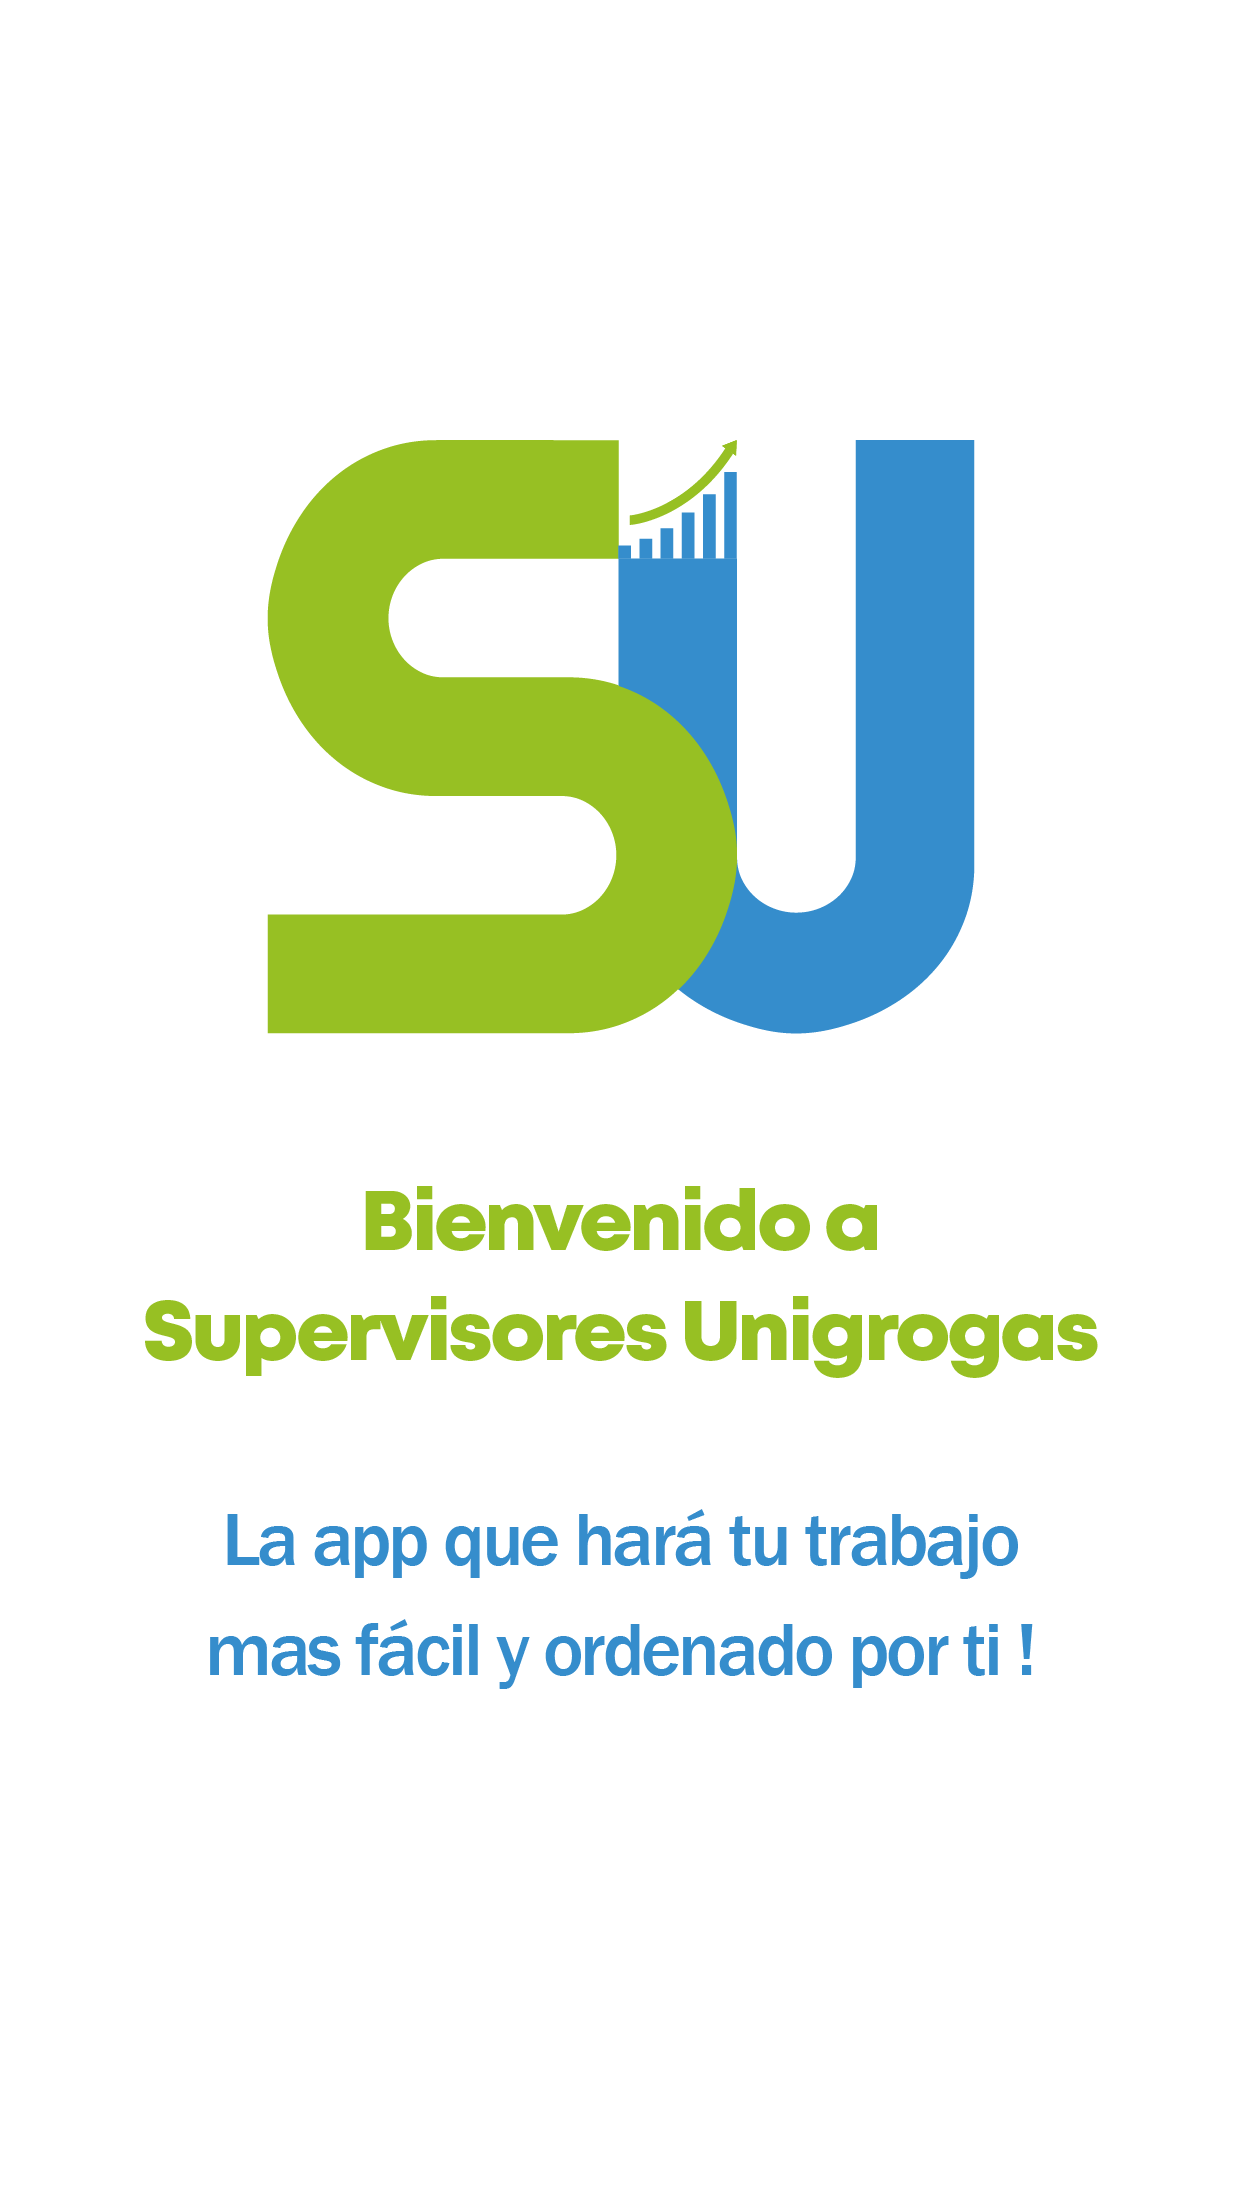
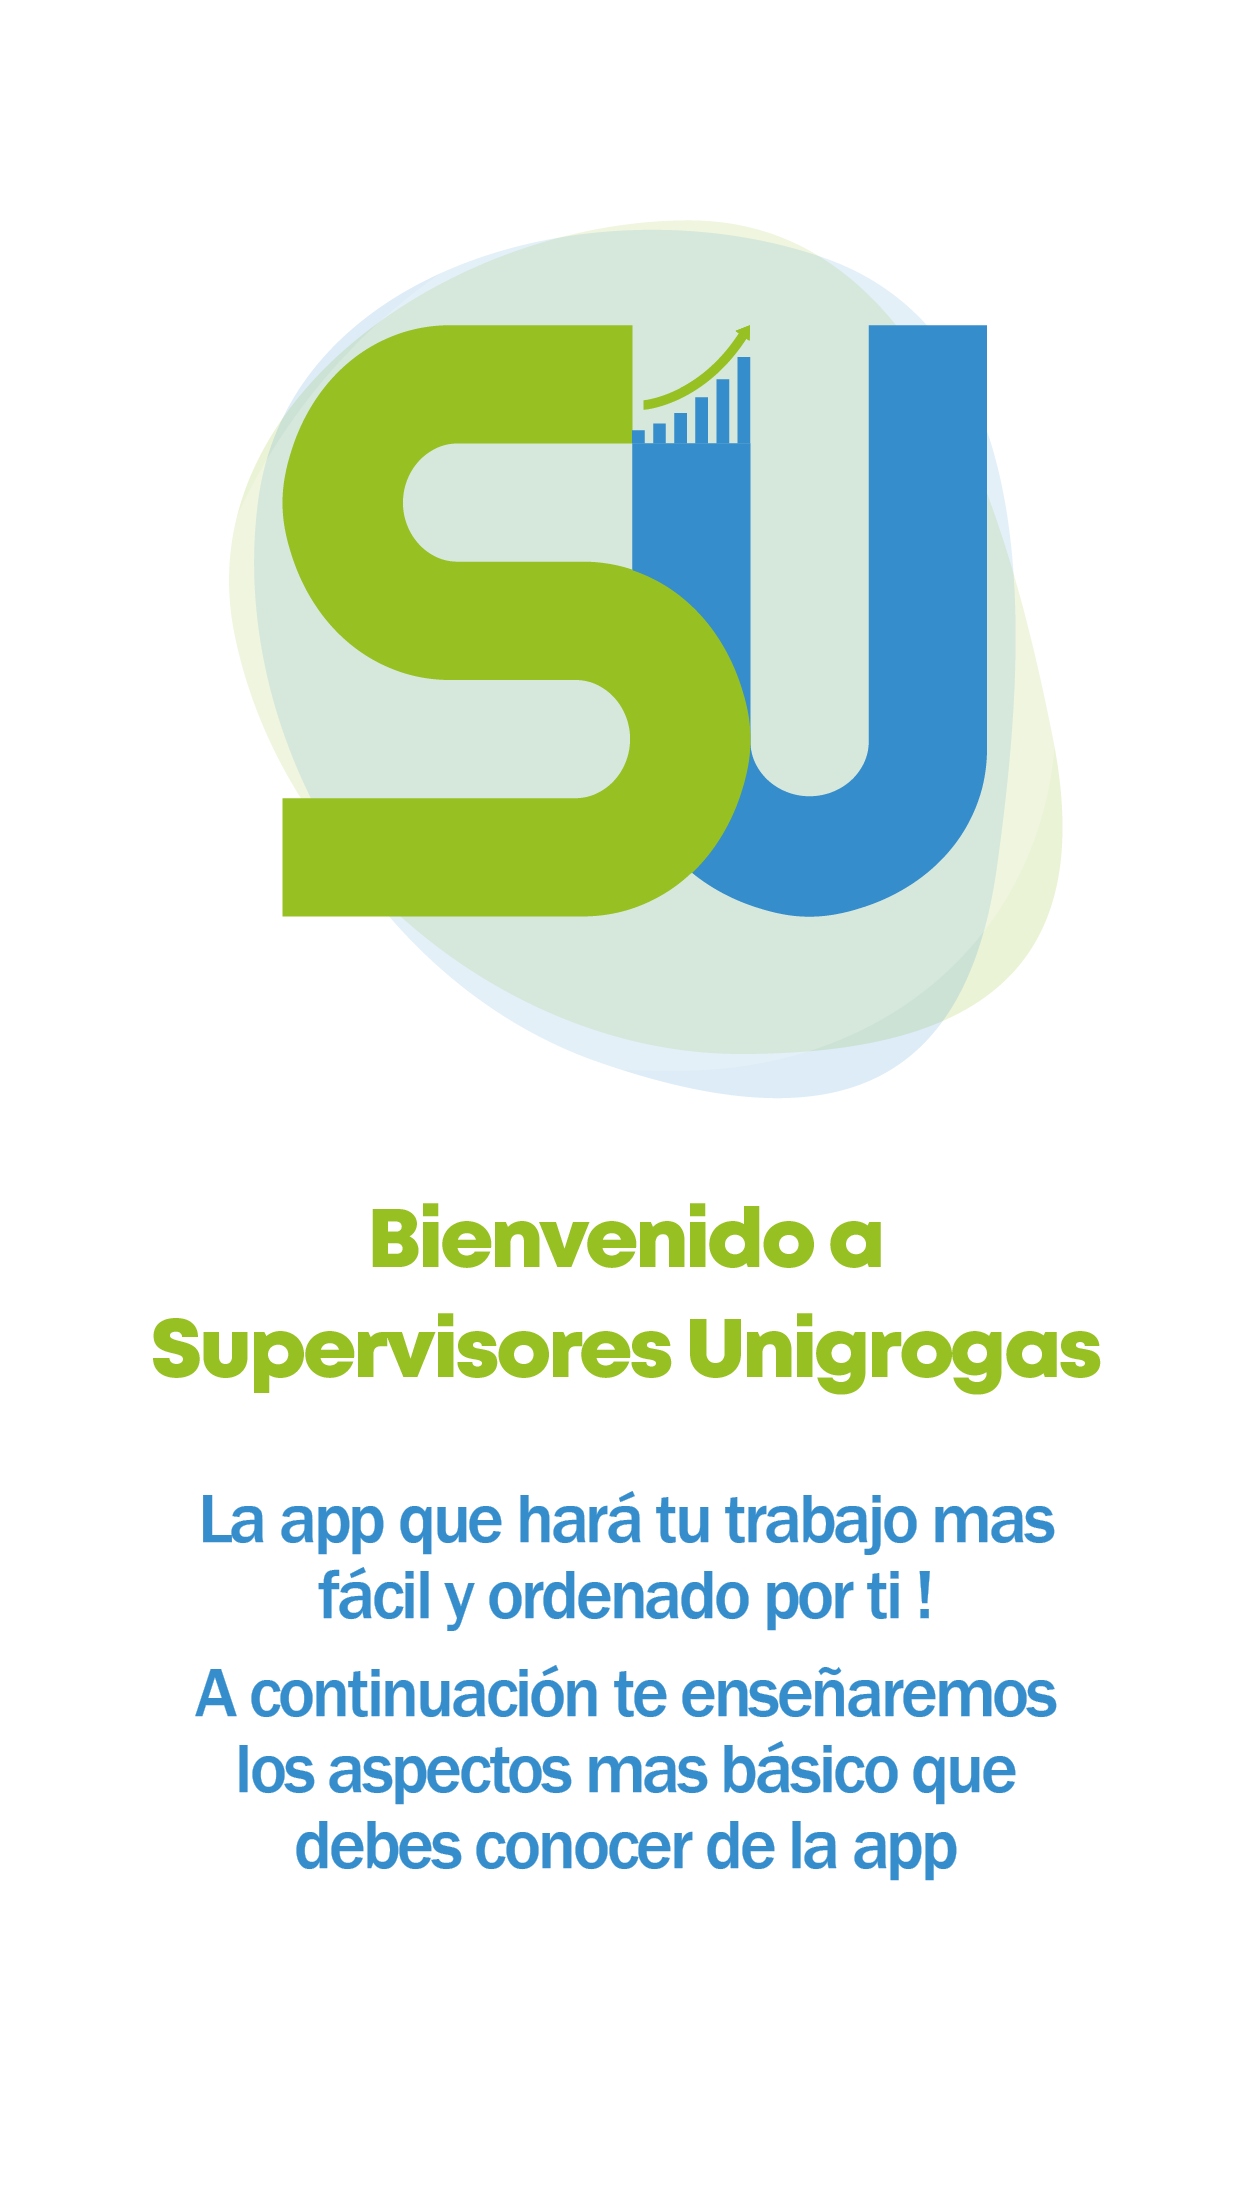
Imagenes tutorial fix

Changed region(s): [[0.1836, 0.0938, 0.8567, 0.5], [0.1224, 0.5312, 0.8873, 0.875]]

diff --git a/src/pages/Tutorial.js b/src/pages/Tutorial.js
@@ -14,7 +14,7 @@ export default class Tutorial extends Component {
       loading: true,
       tutorial:'0',
       isVisibleTutorial:false,
-      tuto: [{url: Imagen.tuto1},{url: Imagen.tuto2},{url: Imagen.tuto3}],
+      tuto: [{url: Imagen.tuto1},{url: Imagen.tuto2},{url: Imagen.tuto3},{url: Imagen.tuto4},{url: Imagen.tuto5}],
     };
   }
 
@@ -53,10 +53,10 @@ export default class Tutorial extends Component {
                 onPositionChanged={position => this.setState({ tutorial: ''+position })}
                 indicatorColor='#BDC3C9'
                 indicatorSelectedColor='#97C023' />
-            <View style={{position: 'absolute',bottom: 5,left: 0,right: 0,justifyContent: 'flex-end',alignItems: 'flex-end',flexDirection: 'row',backgroundColor: 'transparent'}}>
-              {this.state.tutorial === '2' && 
-              <Button disabled={this.state.tutorial !== '2'} style={{backgroundColor:this.state.tutorial === '2'?COLOR.verde:COLOR.gris,alignSelf:'center'}} onPress={() => {this._storeData(); (!this.props.data?toastr.showToast('Ha iniciado sesión!','success'):null); this.props.handler(1,this.props.token);} }>
-                <Text style={{fontFamily:'BebasNeueBold', fontSize:20}}>Aceptar</Text>
+            <View style={{position: 'absolute',bottom: 50,left: 0,right: 0,justifyContent: 'center',alignItems: 'center',flexDirection: 'row',backgroundColor: 'transparent'}}>
+              {this.state.tutorial === '4' && 
+              <Button disabled={this.state.tutorial !== '4'} style={{borderRadius:25,backgroundColor:this.state.tutorial === '4'?COLOR.verde:COLOR.gris,alignSelf:'center'}} onPress={() => {this._storeData(); (!this.props.data?toastr.showToast('Ha iniciado sesión!','success'):null); this.props.handler(1,this.props.token);} }>
+                <Text style={{fontFamily:'BebasNeueBold', fontSize:20}}>      Comencemos!      </Text>
               </Button>}
             </View>         
           </Content>

diff --git a/src/pages/Login.js b/src/pages/Login.js
@@ -8,7 +8,6 @@ import {api} from '../services/api';
 import {Imagen} from '../components/Imagenes';
 import { COLOR } from '../components/Colores';
 import Overlay from 'react-native-modal-overlay';
-import Slideshow from 'react-native-image-slider-show';
 import { logError } from '../components/logError';
 
 let fail = 0;
@@ -191,7 +190,7 @@ export default class Login extends Component {
           var general = (porcentajes.porcentaje_general.actividades_completas / porcentajes.porcentaje_general.todas_las_actividades) * 100;
           that._storeDataPorcentajes(Math.floor(general),porcentajes);
           that._storeData();
-          if(that.state.tutorial < '2'){handler(10,token);}
+          if(that.state.tutorial < '4'){handler(10,token);}
           else{toastr.showToast('Ha iniciado sesión!','success');handler(1,token);}
           //console.log(Math.floor(general));
         }

diff --git a/src/services/api.js b/src/services/api.js
@@ -2,8 +2,8 @@
  * url de la api
  * @example: localhost: 192.168.1.4 | public: 200.116.66.129
  */
-var baseUrl ='http://192.168.1.4';// Servidor Privada
-//var baseUrl ='http://200.116.66.129'; // Servidor Publica // sistemas.binar10.co
+//var baseUrl ='http://192.168.1.4';// Servidor Privada
+var baseUrl ='http://200.116.66.129'; // Servidor Publica // sistemas.binar10.co
 //var baseUrl2 ='http://192.168.1.185';//cudris
 //var baseUrl3 ='http://192.168.1.136';//ronaldo
 export const api = {

diff --git a/src/pages/Activity.js b/src/pages/Activity.js
@@ -805,7 +805,7 @@ export default class Activity extends Component {
           else
           {
             toastr.showToast('Está fuera del rango de ' + items.sucursal,'danger');
-            this.handleBackPress();
+            //this.handleBackPress();
           }  
           if(position.coords.accuracy < 2){
             toastr.showToast('Precisión del GPS muy baja','warning');            

diff --git a/src/pages/Index.js b/src/pages/Index.js
@@ -78,7 +78,9 @@ export default class Index extends Component {
         Imagen.profileBorder,
         Imagen.tuto1,
         Imagen.tuto2,
-        Imagen.tuto3
+        Imagen.tuto3,
+        Imagen.tuto4,
+        Imagen.tuto5
       ]);
     }catch(error){console.log(error)}
     this.setState({ loading: false });

diff --git a/src/components/Imagenes.js b/src/components/Imagenes.js
@@ -28,4 +28,6 @@ export const Imagen = {
     tuto1: require('../../assets/Images/tuto1.png'),
     tuto2: require('../../assets/Images/tuto2.png'),
     tuto3: require('../../assets/Images/tuto3.png'),
+    tuto4: require('../../assets/Images/tuto4.png'),
+    tuto5: require('../../assets/Images/tuto5.png'),
 }

diff --git a/src/services/Preload.js b/src/services/Preload.js
@@ -30,5 +30,7 @@ export const Preload = {
     Imagen.tuto1;
     Imagen.tuto2;
     Imagen.tuto3;
+    Imagen.tuto4;
+    Imagen.tuto5;
   }
 }
